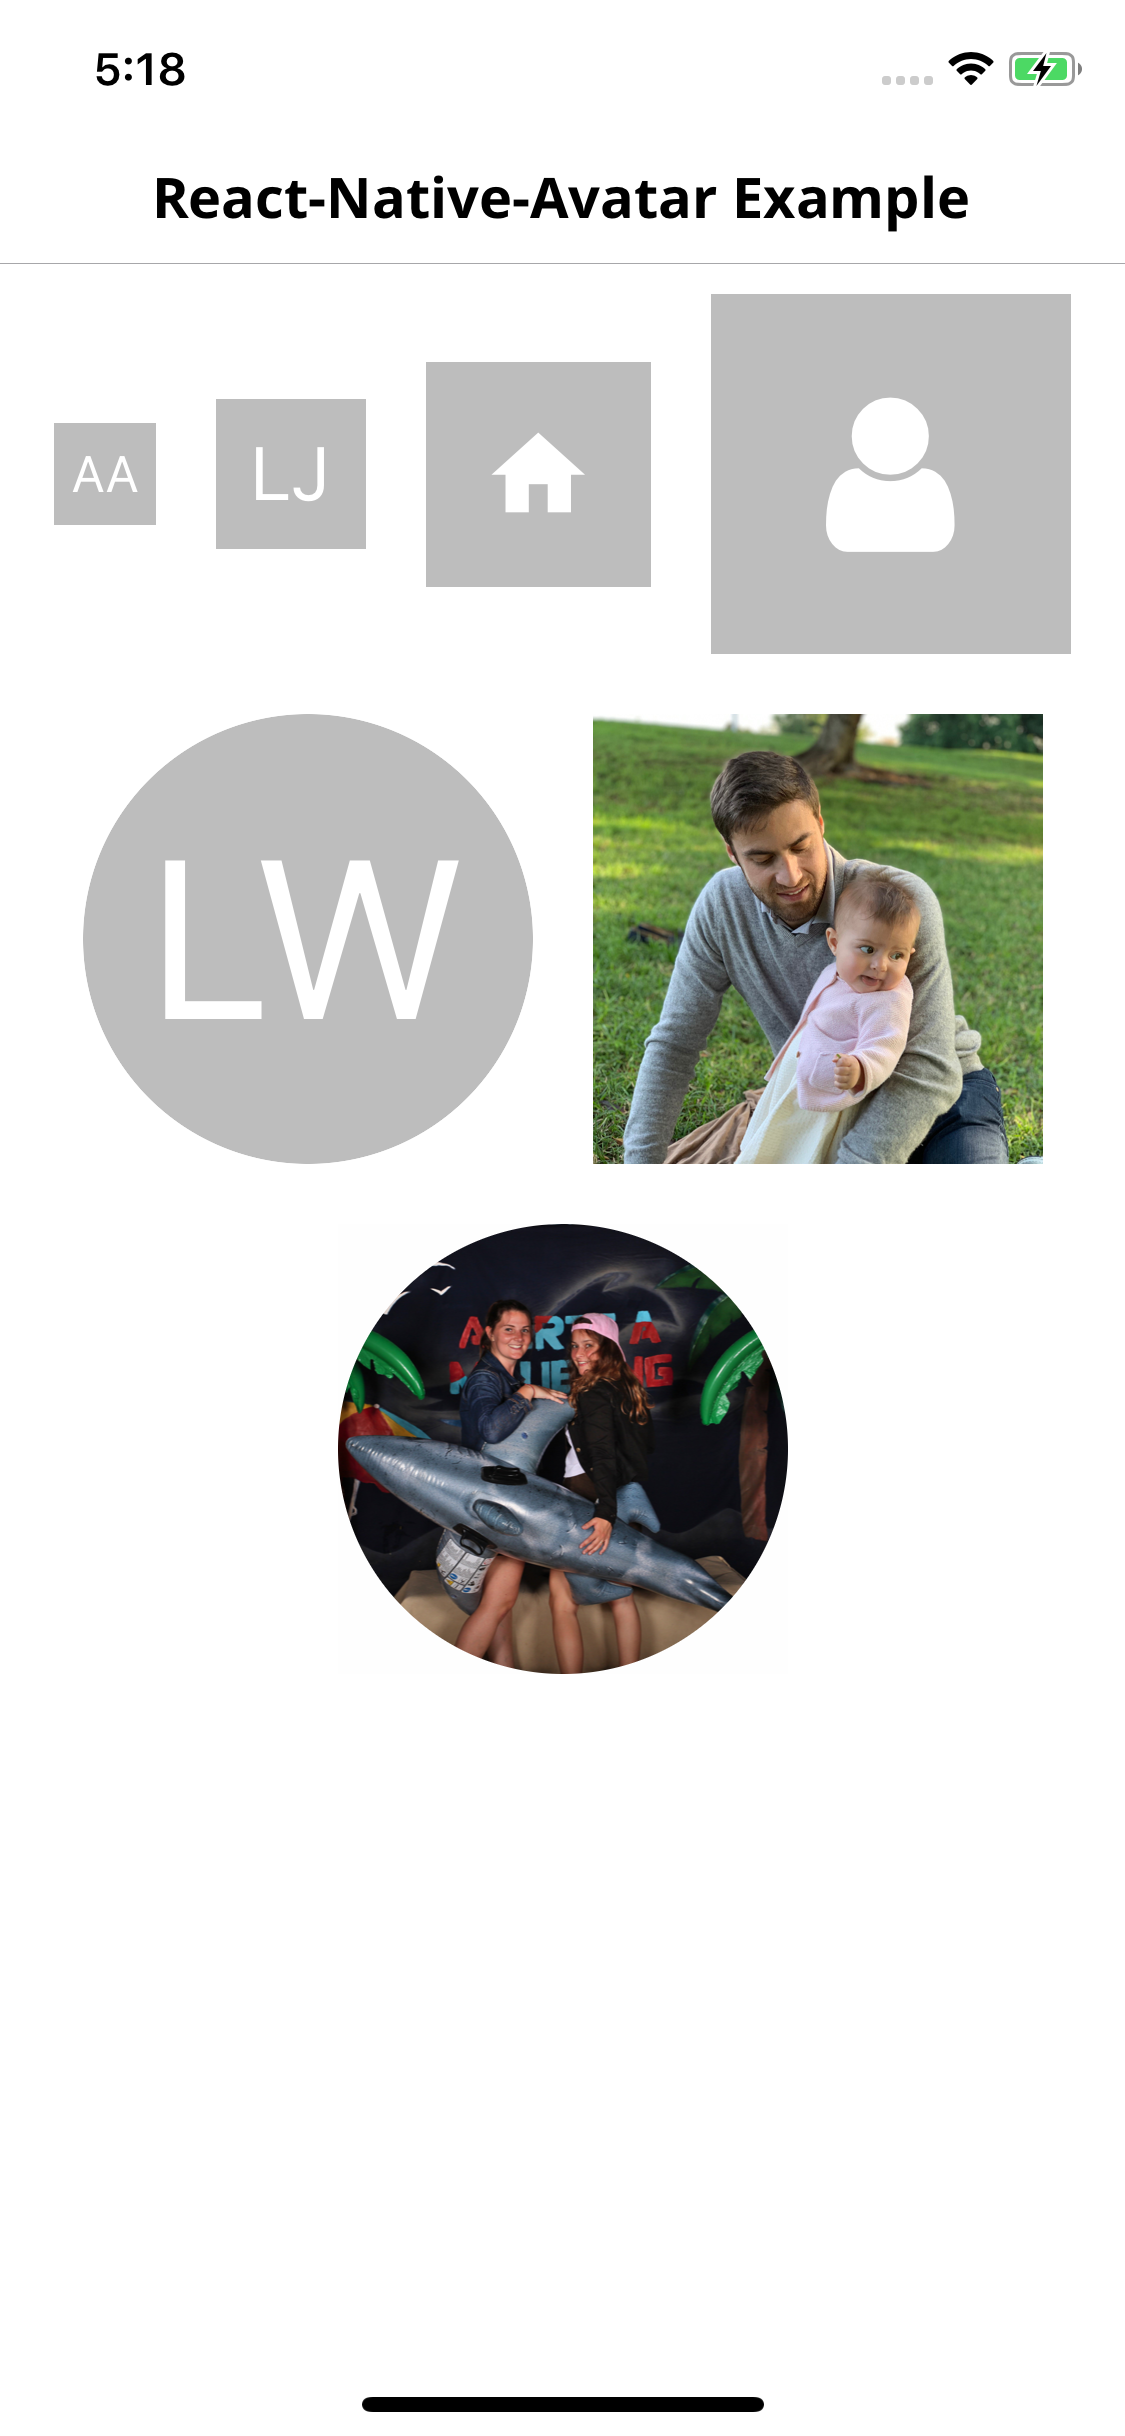
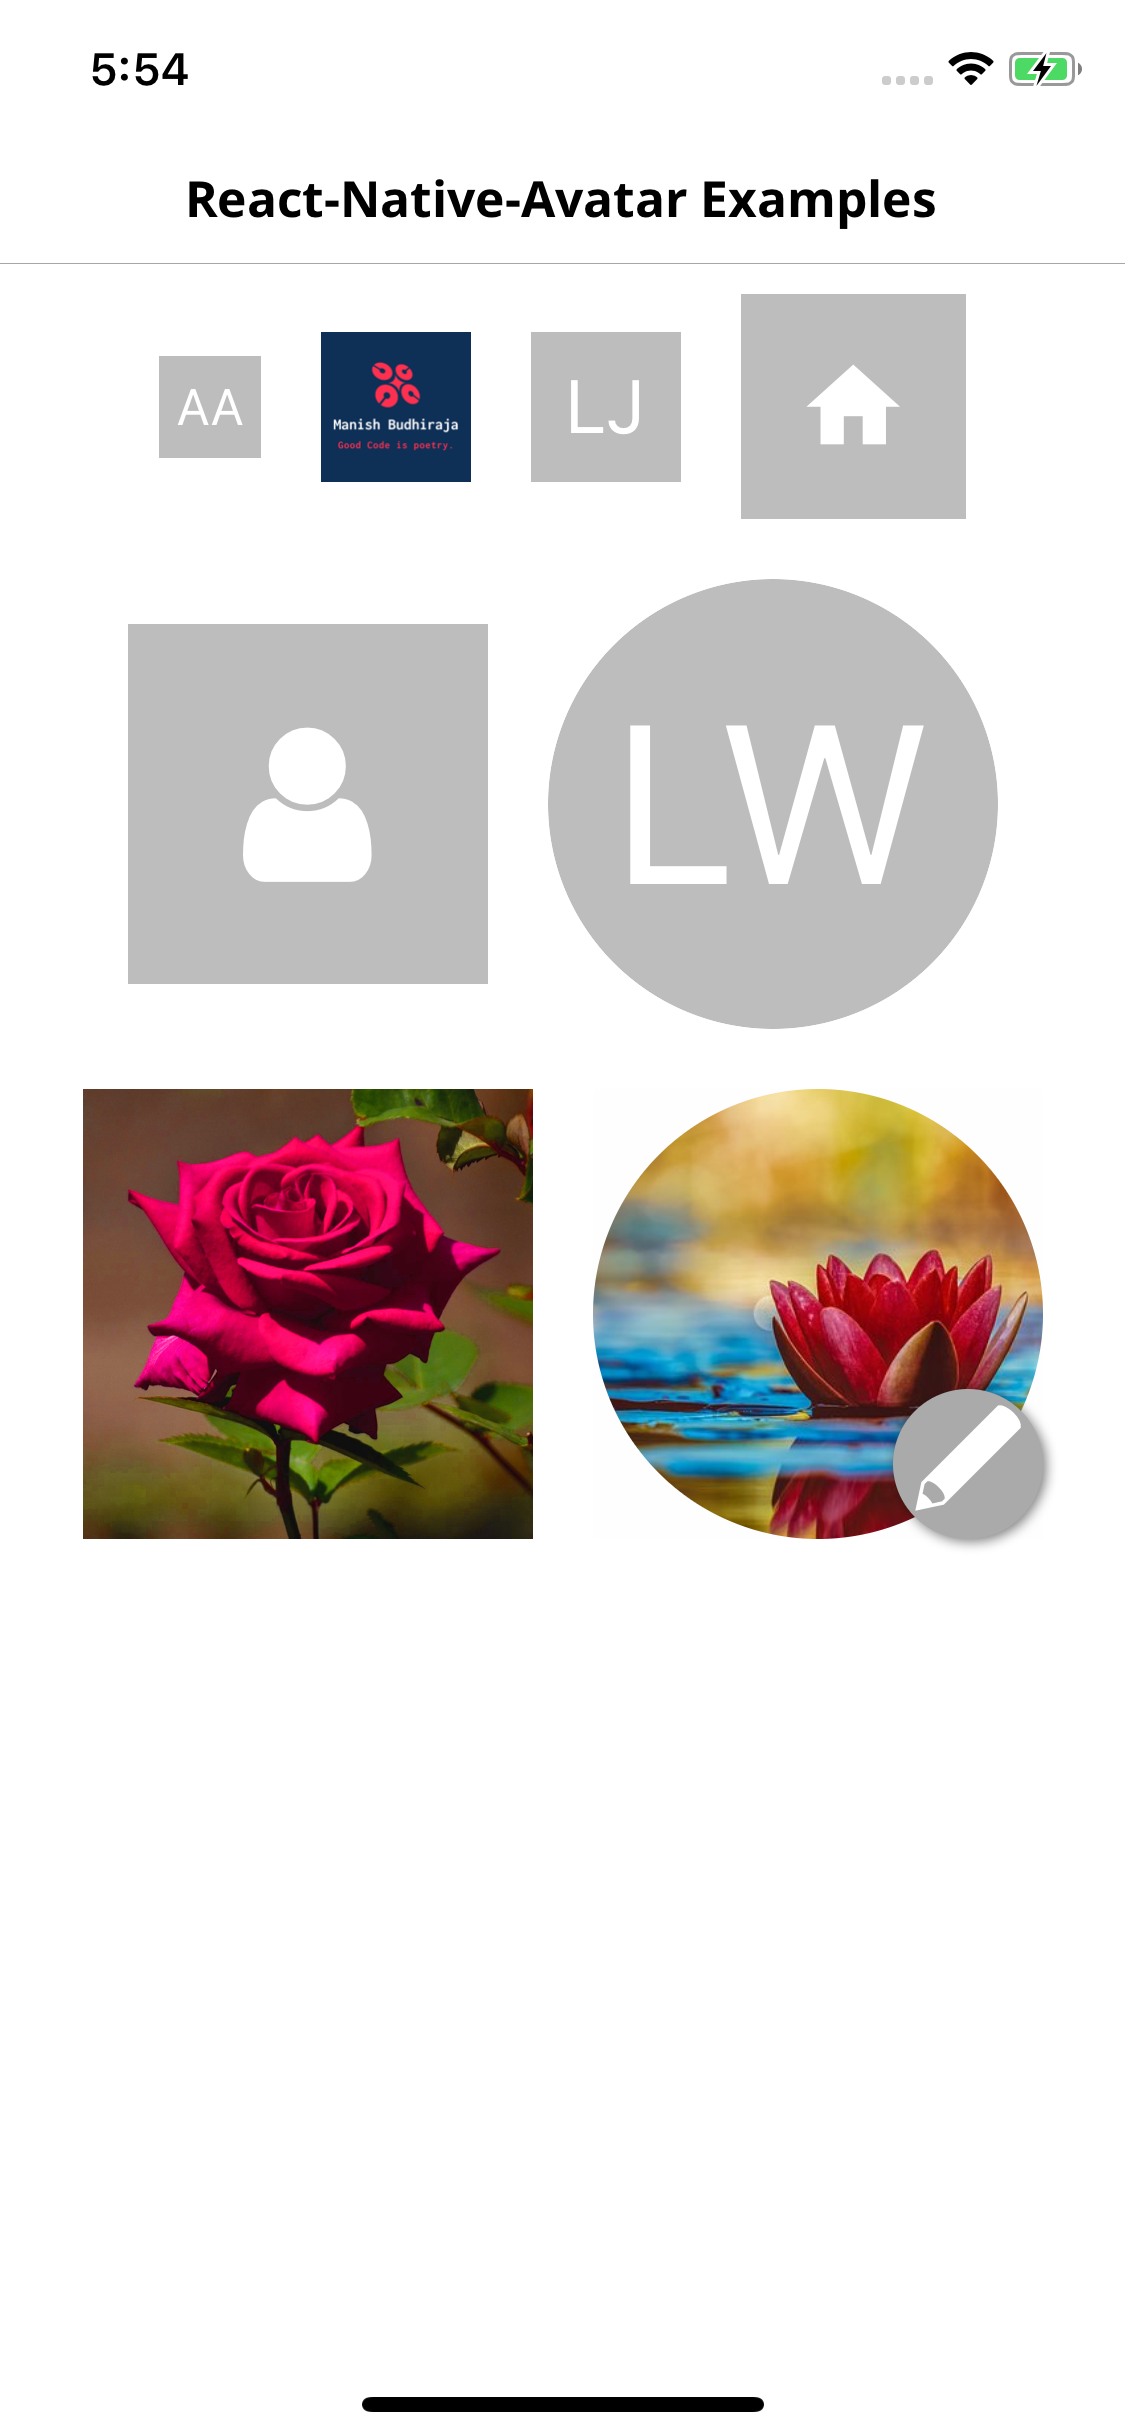
minor changes

diff --git a/src/index.js b/src/index.js
@@ -17,8 +17,8 @@ import { AvatarSizes, IconTypes, Sizes } from './contants';
 
 const defaultEditButton = {
   color: '#fff',
-  name: 'user',
-  type: 'font-awesome',
+  name: 'edit',
+  type: IconTypes.Entypo,
   underlayColor: '#000',
 };
 
